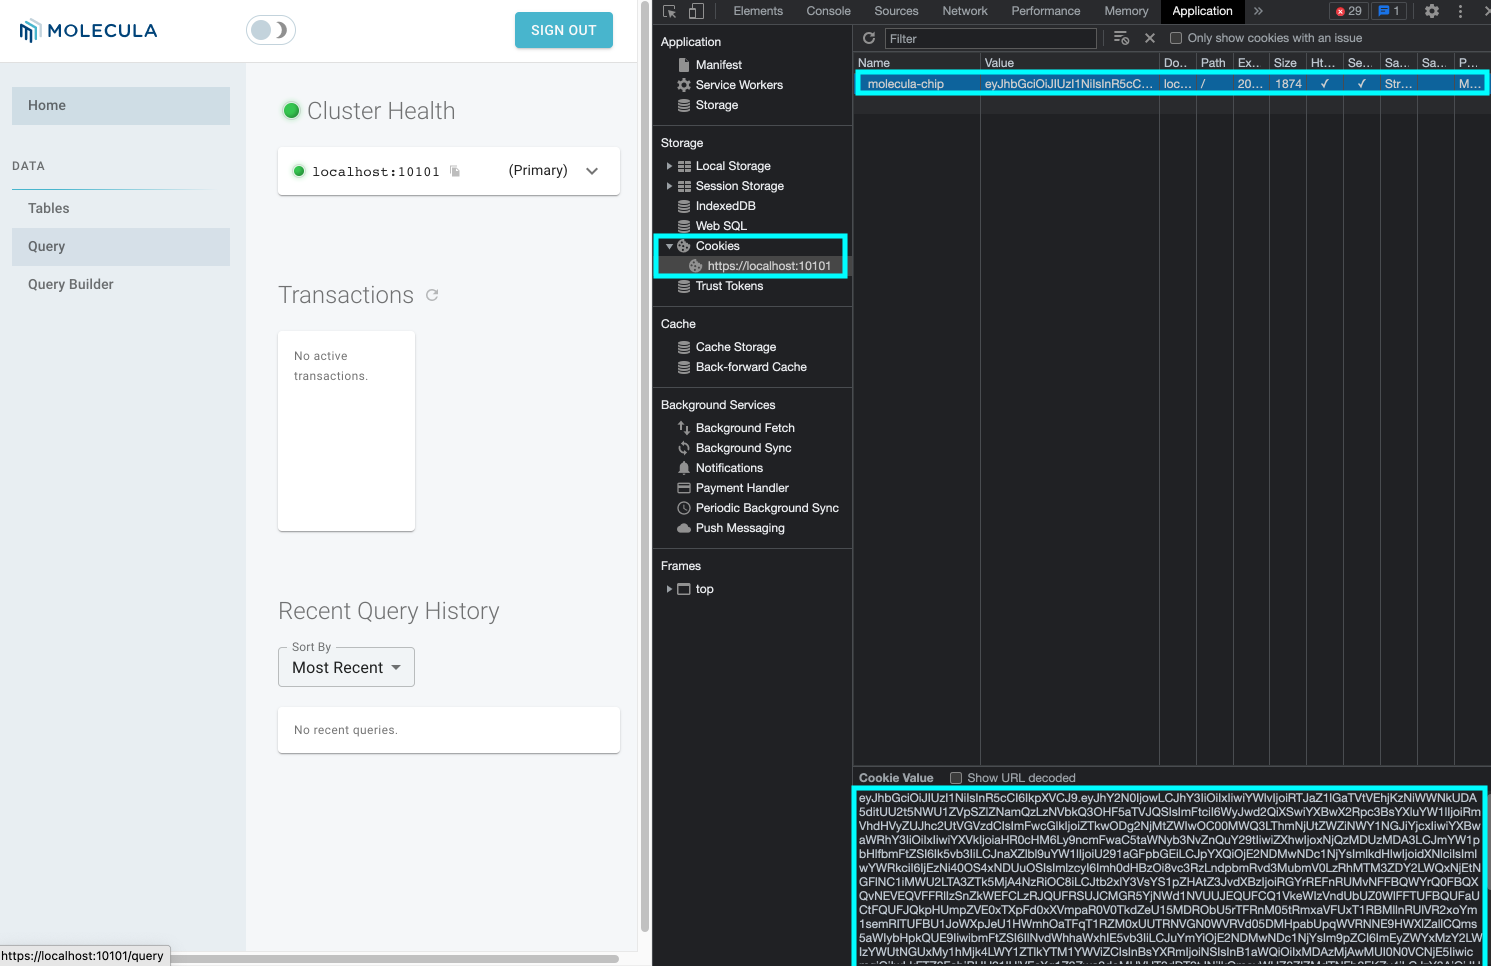
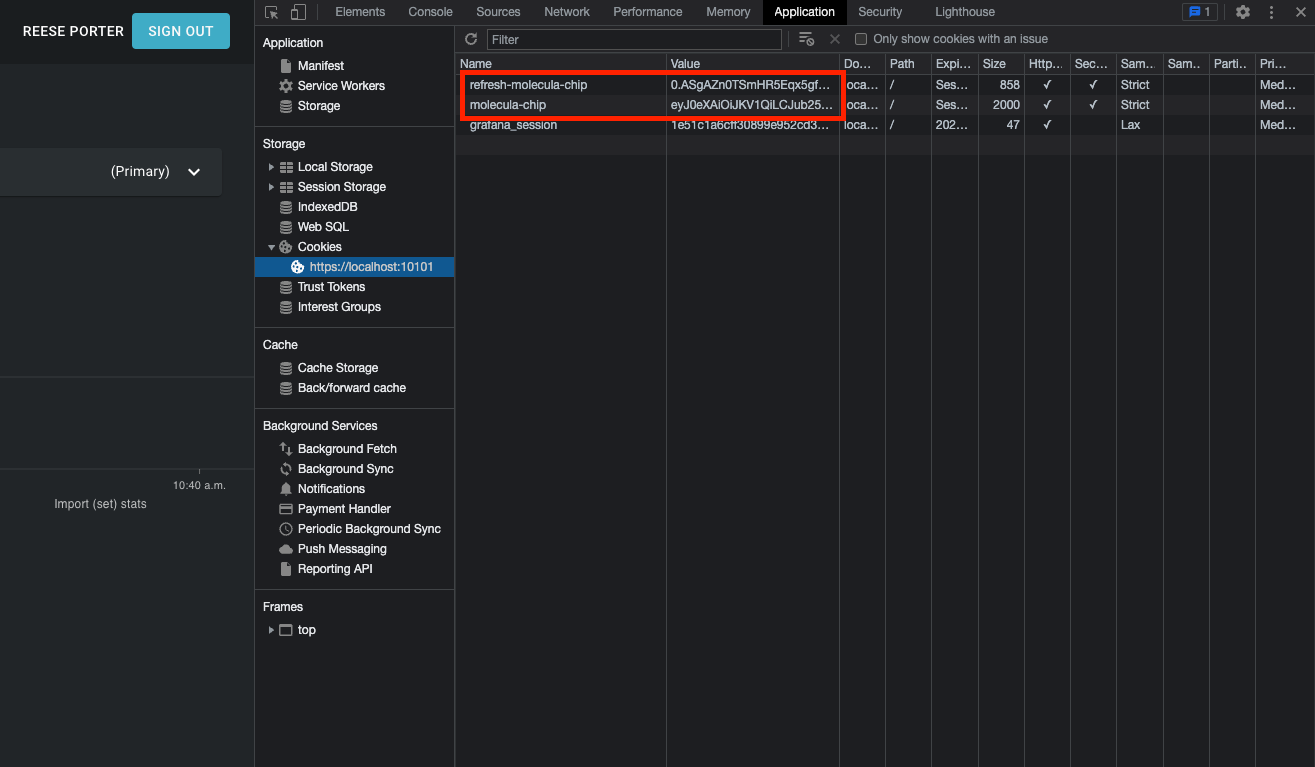
[FB-1379] Update docs with new auth-token subcommand information (#111)
* Update documentation to enable public client flows in AzureAD

* Update docs with new auth-token subcommand

* Update how-tos/_posts/2022-04-01-enable-auth.md

* update auth token cookie image

diff --git a/how-tos/_posts/2022-04-01-enable-auth.md b/how-tos/_posts/2022-04-01-enable-auth.md
@@ -40,6 +40,9 @@ To configure Azure Active Directory as an IdP:
 - [Create a new application secret key](https://docs.microsoft.com/en-us/azure/active-directory/develop/howto-create-service-principal-portal#option-2-create-a-new-application-secret) and add the secret key to the `client-secret` configuration item in `featurebase.conf`.
 - [Create groups](https://docs.microsoft.com/en-us/azure/active-directory/fundamentals/active-directory-groups-create-azure-portal#create-a-basic-group-and-add-members) by following steps 1 through 10.
 - [Add users to groups](https://docs.microsoft.com/en-us/azure/active-directory/fundamentals/active-directory-groups-create-azure-portal#create-a-basic-group-and-add-members) by following steps 11 through 12.
+- Finally, on the App configuration page, on the "Authentication" tab, scroll to
+  "Advanced Settings" and toggle "Allow public client flows" to "yes".
+!["Image of AzureAD app configuration page with Allow public client flows toggled to yes."](/img/public_client_flows.png)
 
 ## Configuring FeatureBase
 
@@ -120,8 +123,18 @@ For example, `bind = "localhost:10101"` must be `bind = "https://localhost:10101
 ### How can I get an auth and refresh token?
 An auth token is a valid JWT provided by FeatureBase after the user is
 authenticated. A refresh token is a token used to refresh an expired auth token.
-To obtain:
-- Log into FeatureBase from a browser
+
+**⚠ WARNING:** Keep these safe, since they are used to identify and authorize you as a
+user. You should _NEVER_ share your auth-token or refresh-token with anyone.
+
+There are two ways to get an auth token in FeatureBase.
+
+1. The first, and easiest method, is to use the `featurebase auth-token` subcommand. Run
+`featurebase auth-token` from the command line, and follow the prompts. Once
+authentication is complete, your auth-token and refresh-token will be printed to the
+screen.
+
+2. The second works if you're already logged in to the lattice UI:
 - Right click on the browser, and click on Inspect
 !["Inspect"](/img/auth_inspect.png)
 - Click on Application
@@ -129,6 +142,7 @@ To obtain:
 - Click on Cookies on the left-side tabs, then click on `molecula-chip`. Copy the Cookie Value, this is the auth token.
 - While on the cookies tab, click on `refresh-molecula-chip`. Copy the Cookie Value, this is the refresh token.
 !["Molecula-Token"](/img/auth_token.png)
+
 
 ### How can I use an auth token?
 To access FeatureBase outside of the UI, an auth token is required. Refer to the [HTTP API](/reference/api/enterprise/http-api#http-api-with-authentication), [gRPC API](/reference/api/enterprise/grpc-api#grpc-api-with-authentication), [backup/restore](/reference/operations/enterprise/backups#backups-with-authentication) or [grafana](/how-tos/use-grafana-plugin#grafana-with-authentication) documentation for details on how to use an auth token to access FeatureBase.
